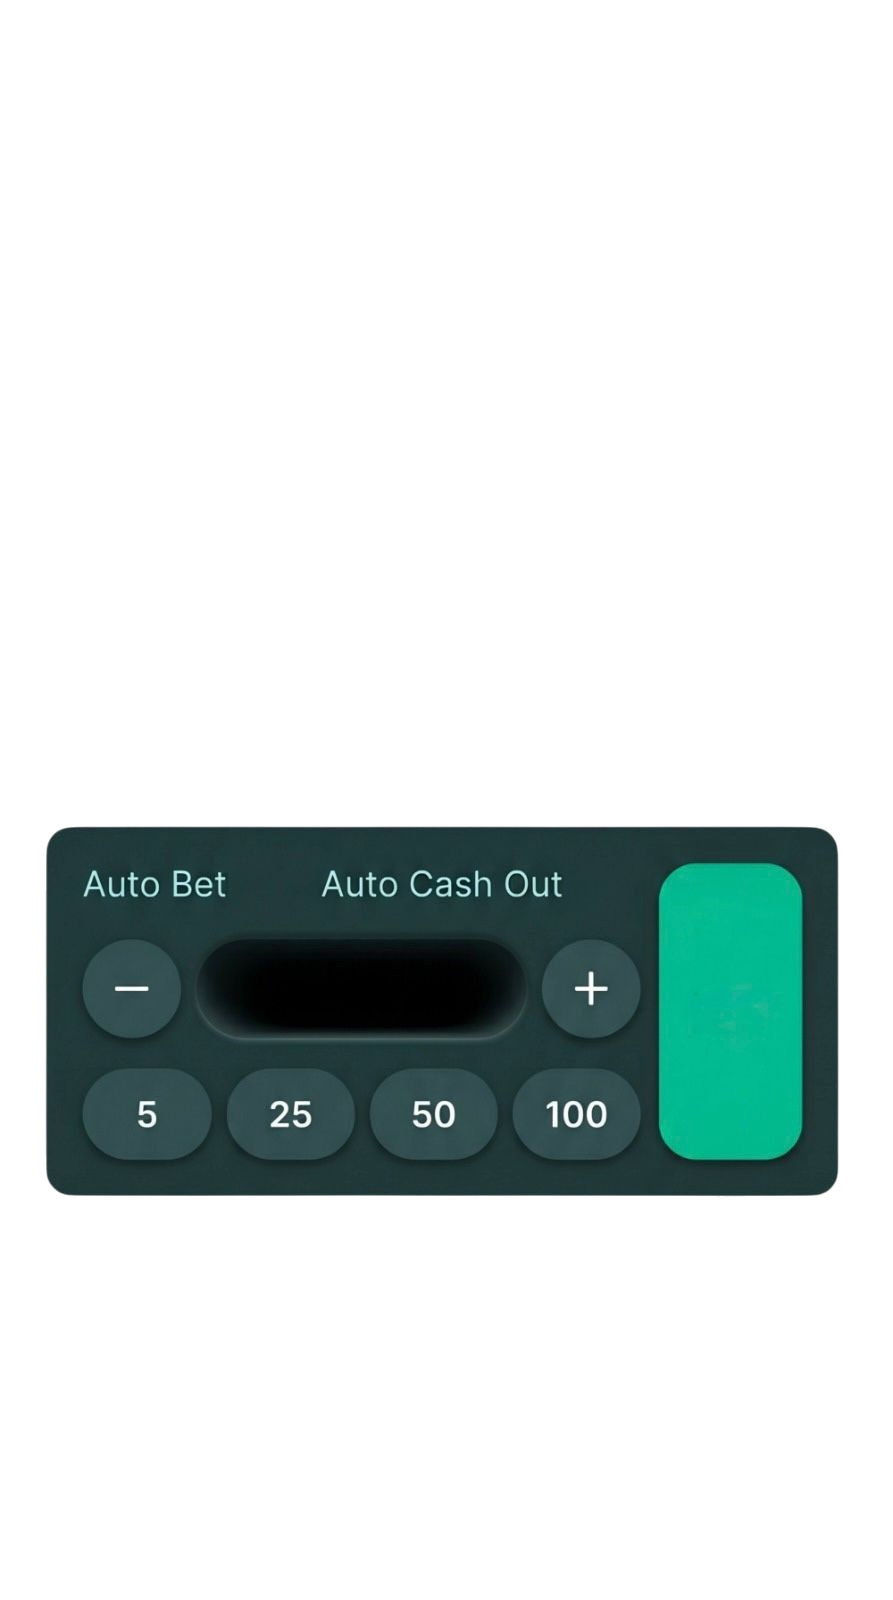
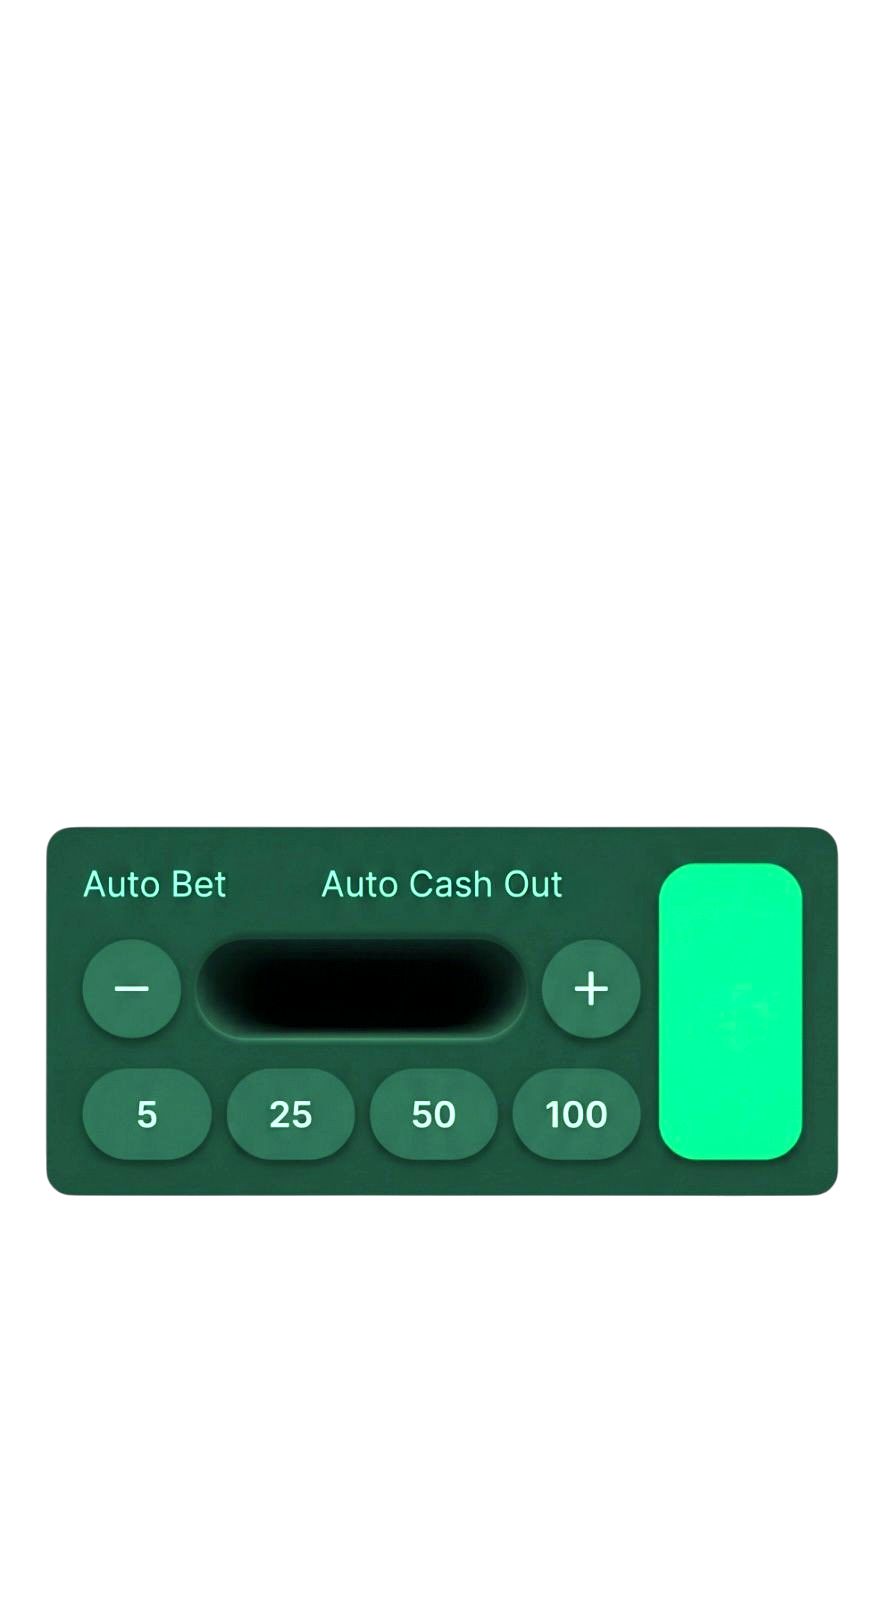
Granny: brighter emerald bet panel + small Auto Bet/Auto Cash Out toggles
- Recolor BET PANEL.png surface to a brighter emerald that stands out from
  the page background (buttons keep their relative contrast)
- Add small toggle switches right of the baked Auto Bet / Auto Cash Out
  labels (no box behind them); multiplier field stays hidden

Changed region(s): [[0.0302, 0.5, 0.9373, 0.75]]

diff --git a/lava-platform/frontend/public/granny.html b/lava-platform/frontend/public/granny.html
@@ -53,7 +53,7 @@
       width:100%;
       aspect-ratio:893/1600;
       position:relative;
-      background:url('/assets/granny/BET%20PANEL.png?v=2') center/100% 100% no-repeat,
+      background:url('/assets/granny/BET%20PANEL.png?v=3') center/100% 100% no-repeat,
                  url('/assets/granny/new%20gran%20panel.jpeg?v=9') center/100% 100% no-repeat;
       flex-shrink:0;
     }
@@ -299,8 +299,8 @@
     /* Row 1 — Auto Bet / Auto Cash Out toggles + x2.00 multiplier */
     .bps-toggle{ position:absolute;background:transparent;border:none;padding:0;cursor:pointer;
       -webkit-tap-highlight-color:transparent;touch-action:manipulation;z-index:6; }
-    .np-autobet { left:18%;   top:8%; width:12%; height:15%; }
-    .np-autocash{ left:57.5%; top:8%; width:12%; height:15%; }
+    .np-autobet { left:23.5%; top:11%; width:6%; height:8%; }
+    .np-autocash{ left:66%;   top:11%; width:6%; height:8%; }
     .np-sw{ position:absolute;inset:0;border-radius:99px;background:#26382e;
       border:1px solid rgba(255,255,255,.12);transition:background .2s; }
     .np-sw .knob{ position:absolute;top:9%;left:6%;height:82%;aspect-ratio:1/1;border-radius:50%;
@@ -317,8 +317,9 @@
       font-size:clamp(11px,3vw,17px);padding:0;-webkit-appearance:none; }
     .np-mult-inp:disabled{ color:#fff;opacity:.85; }
 
-    /* Auto Bet / Auto Cash Out are baked text labels only in BET PANEL.png */
-    .np-autobet,.np-autocash,.np-mult{ display:none!important; }
+    /* small toggles sit right of the baked Auto Bet / Auto Cash Out labels;
+       no box behind them — just the switch. Multiplier field stays hidden. */
+    .np-mult{ display:none!important; }
 
     /* Row 2 — [−]  amount  [+] (BET PANEL.png fractions) */
     .bps-minus{ left:4.92%; top:30.89%; width:11.87%; height:27.64%; }